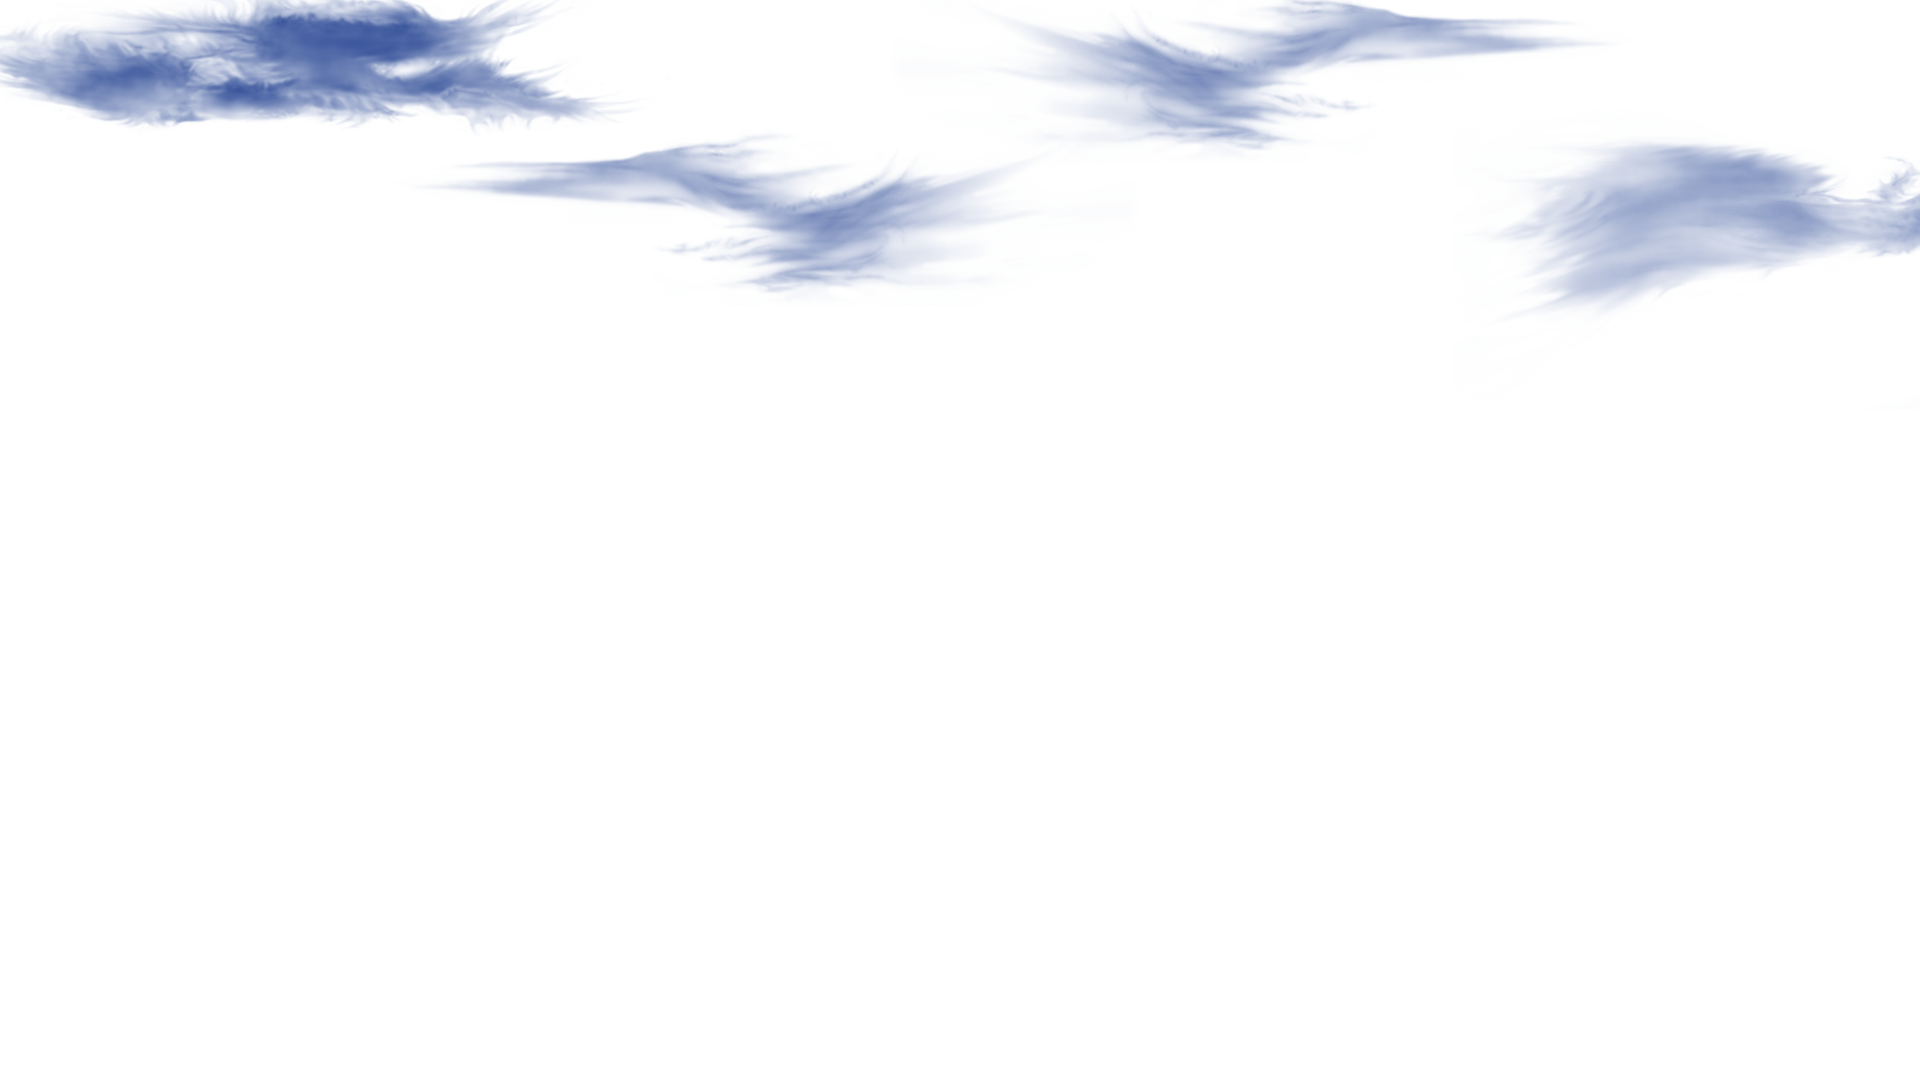
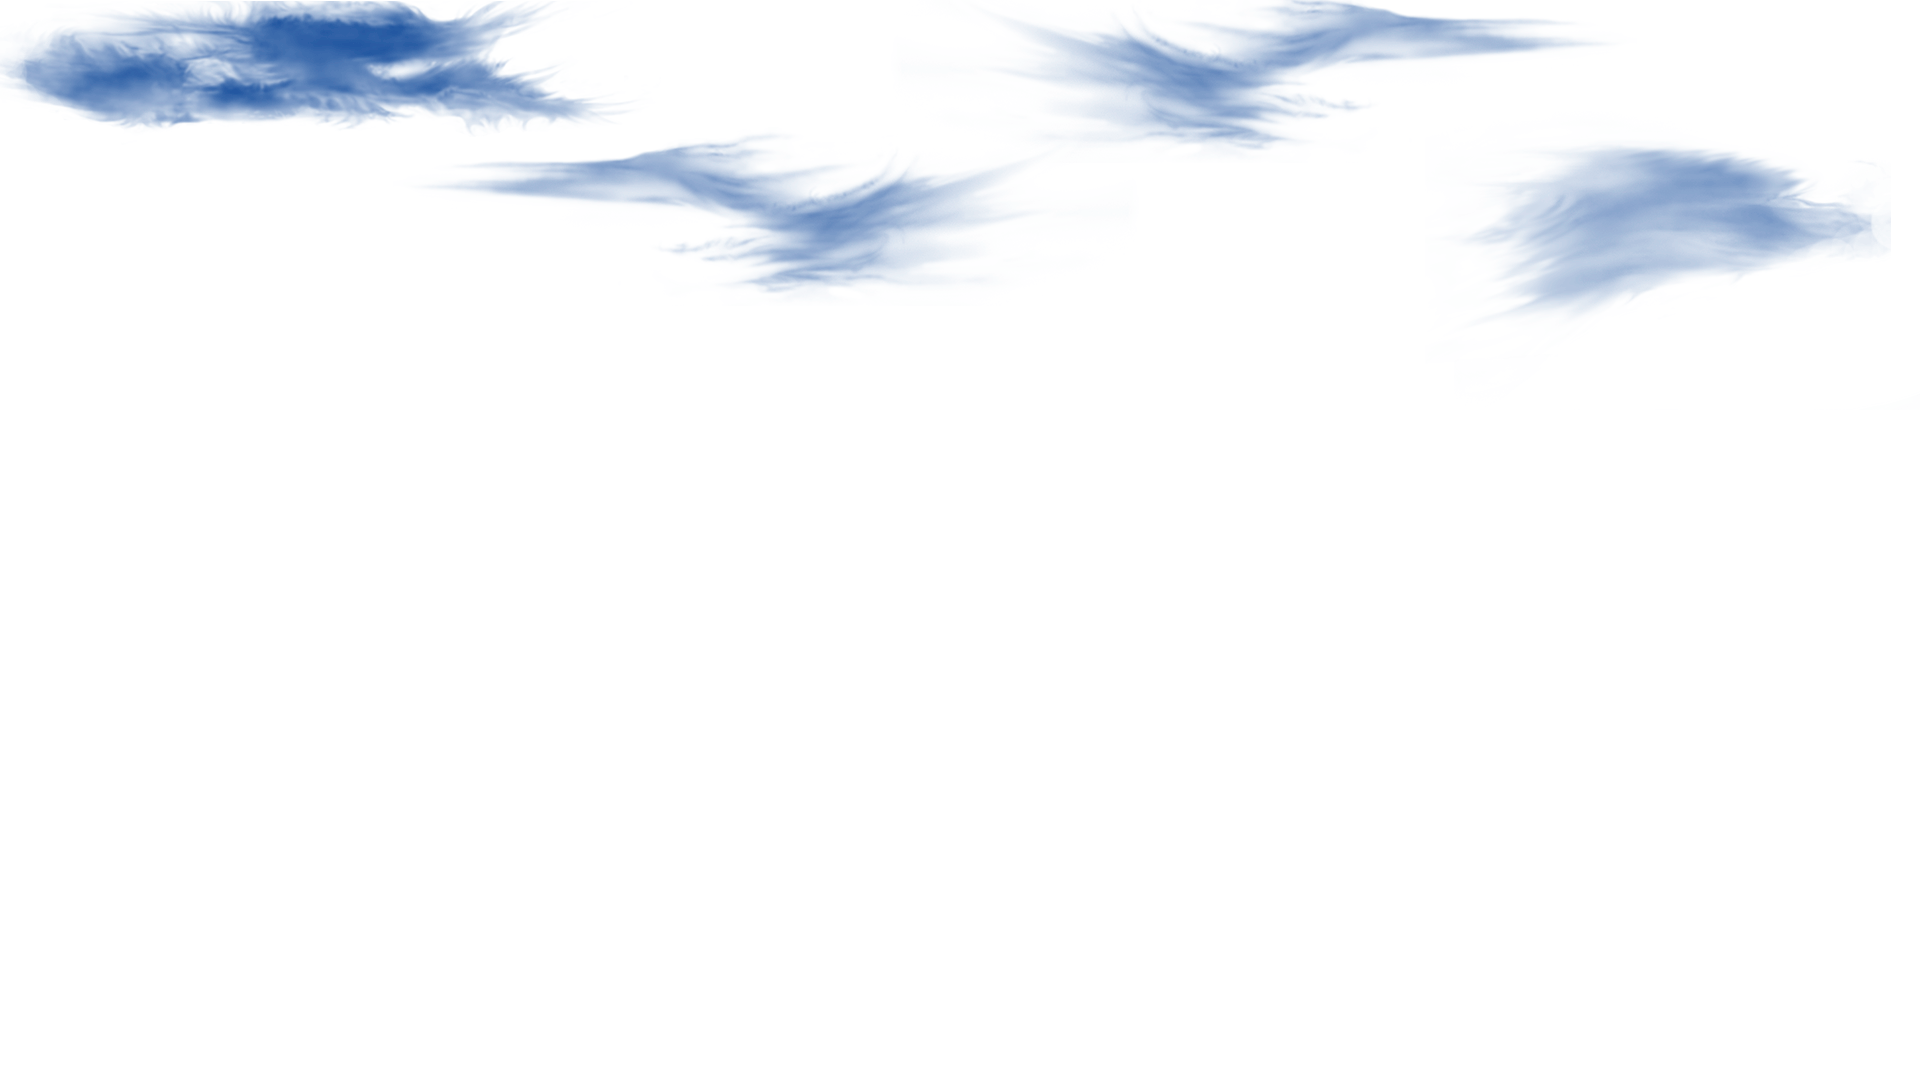
mobile adopt

Changed region(s): [[0.0, 0.0, 0.25, 0.1222], [0.7812, 0.1222, 1.0, 0.275]]

diff --git a/src/pages/mainPage.js b/src/pages/mainPage.js
@@ -75,8 +75,8 @@ const MainPage = () => {
     const isMobile = useMediaQuery(theme.breakpoints.down('md'));
 
     const logoHeightStyle = useSpring({
-        from: {height: '50vh',},
-        to: {height: '20vh',},
+        from: {height: isMobile ? 'auto' : '50vh',},
+        to: {height: isMobile ? 'auto' : '20vh',},
         delay: 2000,
         config: {duration: 1500}
     })
@@ -84,21 +84,19 @@ const MainPage = () => {
     const logoOpacityStyle = useSpring({
         from: {opacity: 0,},
         to: {opacity: 1,},
-        delay: 1000,
-        config: {duration: 1000}
+        delay: isMobile ? 0 : 1000,
+        config: {duration: isMobile ? 1500 : 1000}
     })
 
     const sunStyle = useSpring({
-        from: {top: -50},
-        to: {top: 20},
-        delay: 0,
+        from: {top: isMobile ? 100 : -50},
+        to: {top: isMobile ? 120 : 20},
         config: {duration: 2000}
     })
 
     const cloudsStyle = useSpring({
         from: {backgroundPosition: '100vw top',},
         to: {backgroundPosition: '-100vw top',},
-        delay: 0,
         loop: true,
         config: {duration: 60000}
     })
@@ -106,7 +104,7 @@ const MainPage = () => {
     const streamStyle = useSpring({
         from: {opacity: 0,},
         to: {opacity: 1,},
-        delay: 3500,
+        delay: isMobile ? 1500 : 3500,
         config: {duration: 250}
     })
 
@@ -121,7 +119,7 @@ const MainPage = () => {
                 <div style={{
                     backgroundImage: `url(${city})`,
                     backgroundPosition: 'center top',
-                    backgroundRepeat: 'no-repeat',
+                    backgroundRepeat: 'repeat-x',
                     position: 'absolute',
                     width: '100%',
                     height: '100%',
@@ -135,18 +133,20 @@ const MainPage = () => {
                     src={sun}
                     style={{
                         position: 'absolute',
+                        zIndex: 2,
+                        overflow: 'hidden',
+                        width: isMobile ? '100vw' : 'auto',
                         left: 0,
                         right: 0,
                         marginRight: 'auto',
                         marginLeft: 'auto',
-                        zIndex: 2,
                         ...sunStyle
                     }}
                 />
                 <div style={{
                     backgroundImage: `url(${sky})`,
                     backgroundPosition: 'center top',
-                    backgroundRepeat: 'no-repeat',
+                    backgroundRepeat: 'repeat-x',
                     position: 'absolute',
                     left: 0,
                     right: 0,
@@ -182,6 +182,8 @@ const MainPage = () => {
                             src={logo}
                             alt='logo_1'
                             style={{
+                                overflow: 'hidden',
+                                width: isMobile ? '80vw' : 'auto',
                                 ...logoHeightStyle,
                                 ...logoOpacityStyle,
                             }}
@@ -189,9 +191,9 @@ const MainPage = () => {
                         <animated.div
                             style={{
                                 background: '#311D6B',
-                                height: '65vh',
-                                width: '115vh',
-                                marginTop: 24,
+                                height: isMobile ? '51vw' : '65vh',
+                                width: isMobile ? '90vw' : '115vh',
+                                marginTop: isMobile ? '15vh' : 24,
                                 marginRight: 'auto',
                                 marginLeft: 'auto',
                                 border: '8px solid transparent',
@@ -206,7 +208,7 @@ const MainPage = () => {
                                 margin: 0,
                                 textAlign: 'center',
                                 fontSize: '3rem',
-                                lineHeight: '65vh',
+                                lineHeight: isMobile ? '51vw' : '65vh',
                                 color: '#ABC8FF'
                             }}>
                                 ►
